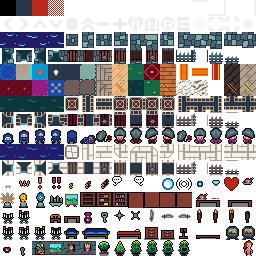
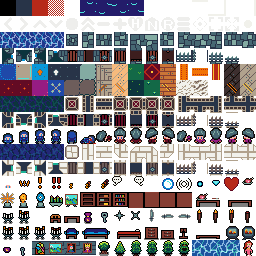
New animated water tiles (work in progress)

diff --git a/src/tilesets.ts b/src/tilesets.ts
@@ -367,10 +367,10 @@ const tileSet31Color:TileSet = {
         {textureIndex: 0x93, color: colorPreset.yellowTint, unlitColor: colorPreset.midGray},
     ],
     fortressWaterAnimation: [
-        {textureIndex: 0x60, color: colorPreset.yellowTint, unlitColor: colorPreset.midGray}, 
-        {textureIndex: 0x61, color: colorPreset.yellowTint, unlitColor: colorPreset.midGray}, 
-        {textureIndex: 0x62, color: colorPreset.yellowTint, unlitColor: colorPreset.midGray}, 
-        {textureIndex: 0x63, color: colorPreset.yellowTint, unlitColor: colorPreset.midGray},
+        {textureIndex: 0x60, color: colorPreset.midGray, unlitColor: colorPreset.darkerGray}, 
+        {textureIndex: 0x61, color: colorPreset.midGray, unlitColor: colorPreset.darkerGray}, 
+        {textureIndex: 0x62, color: colorPreset.midGray, unlitColor: colorPreset.darkerGray}, 
+        {textureIndex: 0x63, color: colorPreset.midGray, unlitColor: colorPreset.darkerGray},
     ],
     stoveAnimation: [
         {textureIndex: 0xee, color: colorPreset.white, unlitColor: colorPreset.midGray}, // stove cycle

diff --git a/src/game.ts b/src/game.ts
@@ -2368,9 +2368,11 @@ export function zoomOut(state: State) {
 function setCellAnimations(gameMap: GameMap, state: State) {
     const levelType = state.gameMapRoughPlans[state.level].levelType;
     const tileSet = getTileSet();
+    let counter = 1;
     for(let c of gameMap.cells.values) {
         if(c.type===TerrainType.GroundWater) {
-            c.animation = new FrameAnimator(waterTileSetForLevelType(levelType, tileSet), 1);
+            c.animation = new FrameAnimator(waterTileSetForLevelType(levelType, tileSet), 1, (counter*1369)%4);
+            counter++;
         }
     }
 }
